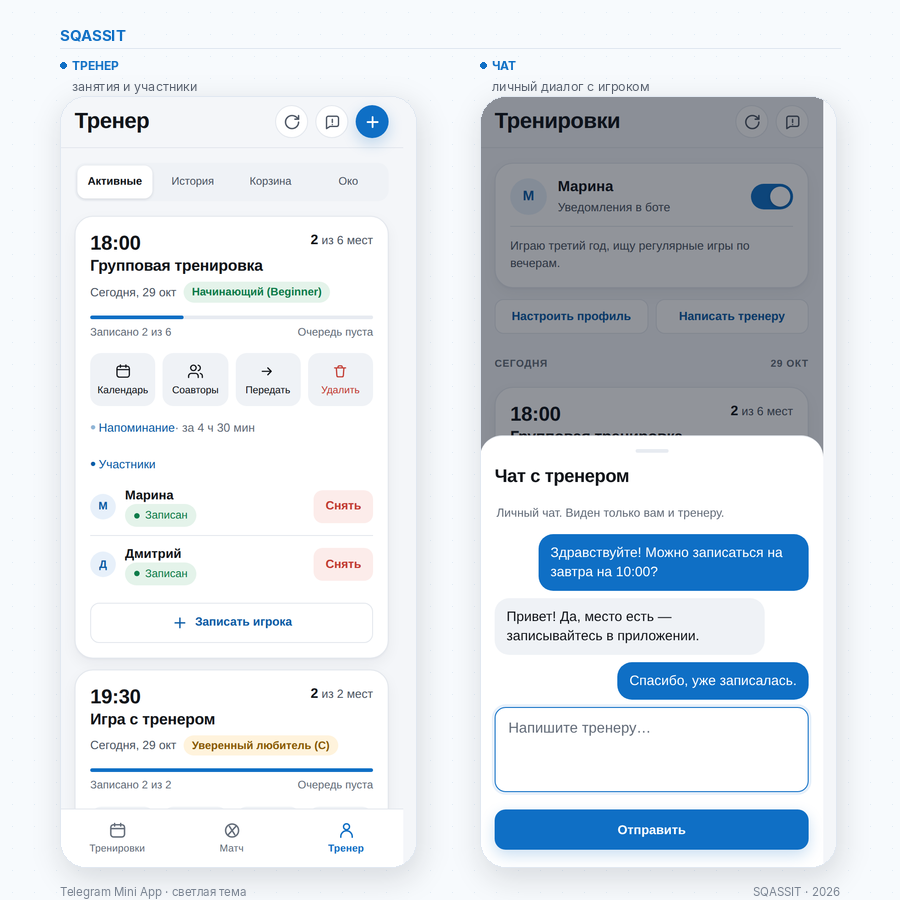
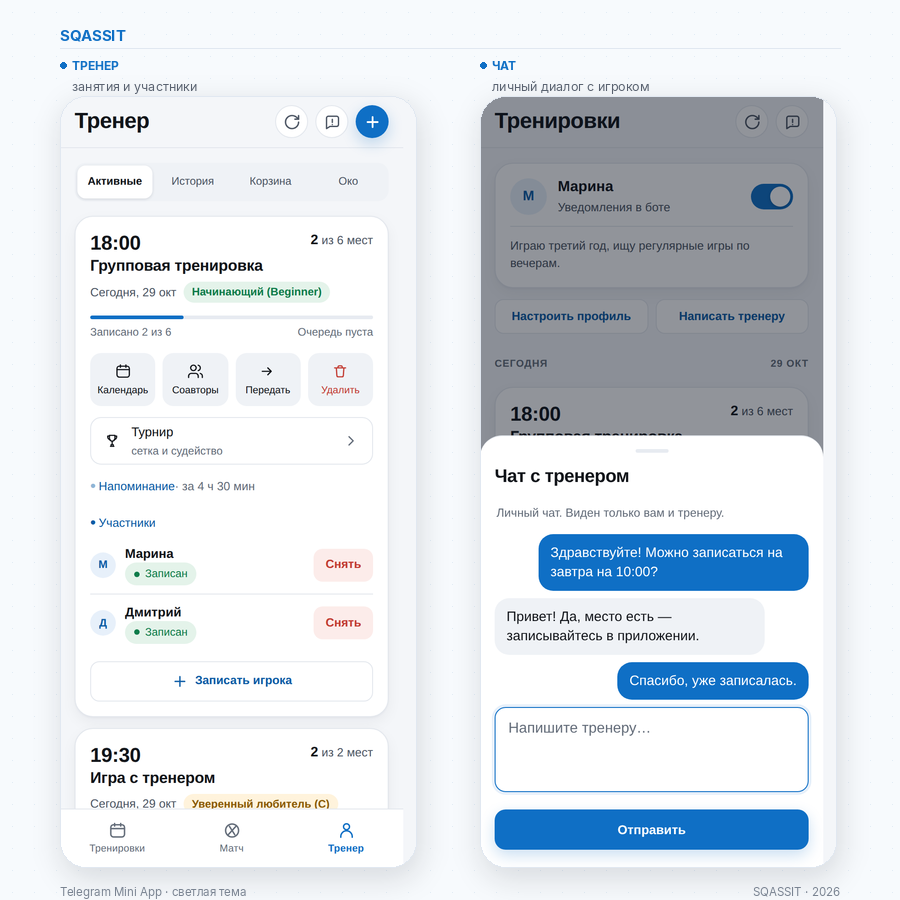
feat(coach): open a squashtabs tournament room from a training (2.9.0)
Тренеру нужен турнир на базе занятия: сетка, судейская консоль и общая
таблица уже есть в squashtabs, но ссылку с кодом комнаты приходилось
придумывать и передавать вручную.

Код комнаты теперь выдаёт сервер и хранит у занятия. Он случайный
(SQ- + 8 знаков, около 40 бит), а не производный от адреса приложения:
топик ntfy публичный, и предсказуемый код позволил бы постороннему читать
состав и подменять счёт. Доступ к коду — у создателя и соавторов, в
расписание игрока он не попадает.

- trainings.room_code + миграция для существующих баз;
- POST /api/coach/trainings/{id}/room: идемпотентно, проверка can_manage,
  404 для удалённой, 403 для чужого тренера и игрока;
- строка «Турнир» в карточке занятия: берёт код и открывает squashtabs
  через Telegram.WebApp.openLink, код идёт в #room= и не уходит на сервер;
- тесты на формат, стабильность, права, удаление и сбой БД (272 теста,
  покрытие 100%).

WEB_APP_VERSION 38, версия 2.9.0. Скриншоты панели тренера обновлены.

diff --git a/app/templates/coach.html b/app/templates/coach.html
@@ -778,6 +778,28 @@ function reminderEditor(t) {
   </details>`;
 }
 
+// Турнир — отдельной строкой: это переход в другое приложение, а не
+// действие над занятием, поэтому не плитка среди «Удалить».
+function tournamentRow(t) {
+  return `
+  <button type="button" class="list-action tournament-row" data-tournament="${t.id}">
+    <svg viewBox="0 0 24 24" fill="none" stroke="currentColor" stroke-width="1.8"
+         stroke-linecap="round" stroke-linejoin="round" aria-hidden="true">
+      <path d="M8 4h8v4.5a4 4 0 0 1-8 0V4Z"/>
+      <path d="M8 5H5.5v1.5A3.5 3.5 0 0 0 9 10M16 5h2.5v1.5A3.5 3.5 0 0 1 15 10"/>
+      <path d="M12 12.5V16M9.5 20h5M10.5 20v-2.5h3V20"/>
+    </svg>
+    <span class="list-action__text">
+      <span>Турнир</span>
+      <span class="list-action__hint">сетка и судейство</span>
+    </span>
+    <svg class="list-action__chevron" viewBox="0 0 24 24" fill="none" stroke="currentColor"
+         stroke-width="1.9" stroke-linecap="round" stroke-linejoin="round" aria-hidden="true">
+      <path d="M9 18l6-6-6-6"/>
+    </svg>
+  </button>`;
+}
+
 // Плитка быстрого действия: иконка и подпись. Подпись важна — по одной
 // иконке тренер не всегда понимает, что именно произойдёт.
 function quickBtn(attr, label, path, danger) {
@@ -815,6 +837,7 @@ function activeRow(t) {
       <span>${wait ? 'Очередь: ' + wait : 'Очередь пуста'}</span>
     </div>
     <div class="quick-actions">${actions}</div>
+    ${t.can_manage ? tournamentRow(t) : ''}
     ${t.is_owner ? reminderEditor(t) : ''}
     <details class="disclosure" data-pid="${t.id}" open>
       <summary>Участники${pending ? ` · заявок ${pending}` : ''}</summary>
@@ -968,6 +991,7 @@ document.getElementById('list').addEventListener('click', async (ev) => {
   const xfer = ev.target.closest('[data-xfer]')?.getAttribute('data-xfer');
   const coauthors = ev.target.closest('[data-coauthors]')?.getAttribute('data-coauthors');
   const book = ev.target.closest('[data-book]')?.getAttribute('data-book');
+  const tournament = ev.target.closest('[data-tournament]')?.getAttribute('data-tournament');
   const row = ev.target.closest('.p-row');
 
   if (cal) {
@@ -978,6 +1002,7 @@ document.getElementById('list').addEventListener('click', async (ev) => {
   if (xfer) { openTransfer(xfer); return; }
   if (coauthors) { openCoauthors(coauthors); return; }
   if (book) { openBook(book); return; }
+  if (tournament) { openTournament(tournament); return; }
 
   try {
     if (del) {
@@ -1257,6 +1282,24 @@ bookList.addEventListener('click', (ev) => {
   }
   addBookPlayer(parseInt(btn.getAttribute('data-book-user'), 10), btn);
 });
+
+// ===== Турнир (squashtabs) =====
+// Код комнаты выдаёт сервер и хранит у занятия: из адреса приложения его
+// выводить нельзя — публичный топик ntfy знает любой, кому известен код.
+async function openTournament(id) {
+  const btn = document.querySelector(`[data-tournament="${id}"]`);
+  if (btn) btn.disabled = true;
+  try {
+    const d = await api(`/api/coach/trainings/${id}/room`, 'POST');
+    haptic('light');
+    openExternal('https://difp.github.io/squashtabs/#room=' + encodeURIComponent(d.code));
+  } catch (e) {
+    hapticNotify('error');
+    toast(e.message);
+  } finally {
+    if (btn) btn.disabled = false;
+  }
+}
 
 // ===== Напоминание =====
 function readReminder(id) {

diff --git a/app/templates/base.html b/app/templates/base.html
@@ -403,6 +403,10 @@
     .list-action svg { width: 18px; height: 18px; flex: none; }
     .list-action__chevron { margin-inline-start: auto; color: var(--text-3); }
     .list-action--danger { color: var(--danger); }
+    /* Строка-переход в другое приложение: подпись в две строки. */
+    .tournament-row { margin-top: 12px; }
+    .list-action__text { display: flex; flex-direction: column; gap: 2px; min-width: 0; }
+    .list-action__hint { font-size: 12px; font-weight: 400; color: var(--text-3); }
     .list-action:active { background: var(--surface-2); }
 
     /* Плитки быстрых действий тренера: иконка + подпись под ней. */

diff --git a/tests/test_app.py b/tests/test_app.py
@@ -769,6 +769,58 @@ def _create_training(client, *, day: int, time_str: str, **extra) -> int:
     return response.json()["id"]
 
 
+def test_training_room_code_is_server_side_and_stable(client, monkeypatch):
+    tid = _create_training(client, day=24, time_str="12:00")
+
+    first = client.post(f"/api/coach/trainings/{tid}/room", headers=COACH)
+    assert first.status_code == 200
+    code = first.json()["code"]
+    # Алфавит без 0/O и 1/I: код диктуют вслух и вводят руками.
+    assert re.fullmatch(r"SQ-[A-HJ-NP-Z2-9]{8}", code)
+
+    # Повторный тап отдаёт тот же код, а не создаёт второй.
+    again = client.post(f"/api/coach/trainings/{tid}/room", headers=COACH)
+    assert again.json()["code"] == code
+
+    # В расписании кода нет: он нужен только в панели тренера.
+    for viewer in (PLAYER, COACH):
+        cards = client.get("/api/trainings?days=31", headers=viewer).json()["trainings"]
+        card = next(t for t in cards if t["id"] == tid)
+        assert "room_code" not in card
+
+    # Игрок и чужой тренер код не получают.
+    assert client.post(
+        f"/api/coach/trainings/{tid}/room", headers=PLAYER
+    ).status_code == 403
+    assert client.get("/api/me", headers=COACH2).status_code == 200
+    assert client.post(
+        "/api/coach/coaches", headers=COACH, json={"telegram_id": 777}
+    ).json()["ok"]
+    assert client.post(
+        f"/api/coach/trainings/{tid}/room", headers=COACH2
+    ).status_code == 403
+
+    # Несуществующая и удалённая тренировки.
+    assert client.post(
+        "/api/coach/trainings/999999/room", headers=COACH
+    ).status_code == 404
+    assert client.delete(f"/api/coach/trainings/{tid}", headers=COACH).status_code == 200
+    assert client.post(
+        f"/api/coach/trainings/{tid}/room", headers=COACH
+    ).status_code == 404
+
+    # Сбой записи кода не должен отдавать 200 с пустым кодом.
+    tid2 = _create_training(client, day=25, time_str="12:00")
+
+    async def boom(*args, **kwargs):
+        raise RuntimeError("db down")
+
+    monkeypatch.setattr(mainmod.db, "set_training_room", boom)
+    failed = client.post(f"/api/coach/trainings/{tid2}/room", headers=COACH)
+    assert failed.status_code == 500
+    assert failed.json()["ok"] is False
+
+
 def test_coach_api_includes_waitlist_count(client):
     tid = _create_training(client, day=15, time_str="10:00", capacity=1)
     client.post(f"/api/trainings/{tid}/book", headers=PLAYER)

diff --git a/app/main.py b/app/main.py
@@ -14,6 +14,7 @@ import hmac
 import html
 import logging
 import re
+import secrets
 import time
 from contextlib import asynccontextmanager, suppress
 from datetime import UTC, datetime, timedelta
@@ -649,6 +650,14 @@ async def _resolve_user_id(payload: CoachIn | CoauthorIn) -> int | None:
         found = await db.find_user_by_username(payload.username)
         return int(found["telegram_id"]) if found is not None else None
     return None
+
+
+_ROOM_CODE_ALPHABET = "ABCDEFGHJKLMNPQRSTUVWXYZ23456789"  # без похожих 0/O и 1/I
+
+
+def _new_room_code() -> str:
+    """Код комнаты турнира: 8 знаков, около 40 бит энтропии."""
+    return "SQ-" + "".join(secrets.choice(_ROOM_CODE_ALPHABET) for _ in range(8))
 
 
 _TRAINING_BATCH_MAX_DAYS = 92
@@ -1678,6 +1687,34 @@ async def api_coach_participants(training_id: int, coach: Annotated[dict, Depend
         }
     except Exception:
         logger.exception("Ошибка чтения участников")
+        return error_json("Внутренняя ошибка сервера", 500)
+
+
+@app.post("/api/coach/trainings/{training_id}/room")
+async def api_training_room(
+    training_id: int, user: Annotated[dict, Depends(require_coach)]
+):
+    """
+    Код комнаты squashtabs для занятия.
+
+    Код случайный и хранится на сервере: ntfy не авторизует топики, поэтому
+    выводить его из адреса приложения нельзя — кто знает код, тот читает
+    состав и может подменить счёт. Права те же, что на управление занятием.
+    """
+    try:
+        training = await db.get_training(training_id)
+        if training is None or training["deleted_at"]:
+            return error_json("Тренировка не найдена", 404)
+        if not await _can_manage_training(training, user["telegram_id"]):
+            return error_json("Нет прав на это занятие", 403)
+        code = training["room_code"]
+        if not code:
+            await db.set_training_room(training_id, _new_room_code())
+            # Перечитываем: параллельный тап мог записать свой код первым.
+            code = await db.get_training_room(training_id)
+        return {"ok": True, "code": code}
+    except Exception:
+        logger.exception("Ошибка кода комнаты турнира")
         return error_json("Внутренняя ошибка сервера", 500)
 
 

diff --git a/app/database.py b/app/database.py
@@ -97,6 +97,7 @@ CREATE TABLE IF NOT EXISTS trainings (
     deleted_at            INTEGER,                    -- мягкое удаление (корзина)
     deleted_by            INTEGER,
     created_by            INTEGER,
+    room_code             TEXT,                       -- код комнаты турнира (squashtabs)
     created_at            INTEGER NOT NULL
 );
 
@@ -242,6 +243,7 @@ async def _migrate() -> None:
         ("trainings", "deleted_at"): "ALTER TABLE trainings ADD COLUMN deleted_at INTEGER",
         ("trainings", "deleted_by"): "ALTER TABLE trainings ADD COLUMN deleted_by INTEGER",
         ("trainings", "level"): "ALTER TABLE trainings ADD COLUMN level TEXT NOT NULL DEFAULT ''",
+        ("trainings", "room_code"): "ALTER TABLE trainings ADD COLUMN room_code TEXT",
         ("users", "bio"): "ALTER TABLE users ADD COLUMN bio TEXT NOT NULL DEFAULT ''",
         ("users", "links"): "ALTER TABLE users ADD COLUMN links TEXT NOT NULL DEFAULT '[]'",
         ("users", "about"): "ALTER TABLE users ADD COLUMN about TEXT NOT NULL DEFAULT ''",
@@ -899,6 +901,22 @@ async def update_reminder_settings(
 
 async def get_training(training_id: int) -> aiosqlite.Row | None:
     return await _fetchone("SELECT * FROM trainings WHERE id = ?", (training_id,))
+
+
+async def get_training_room(training_id: int) -> str | None:
+    """Код комнаты турнира для занятия (None, если ещё не создавали)."""
+    row = await _fetchone(
+        "SELECT room_code FROM trainings WHERE id = ?", (training_id,)
+    )
+    return row["room_code"] if row is not None else None
+
+
+async def set_training_room(training_id: int, code: str) -> None:
+    """Записывает код, только если его ещё нет: два тапа не создадут два кода."""
+    await _execute_rowcount(
+        "UPDATE trainings SET room_code = ? WHERE id = ? AND room_code IS NULL",
+        (code, training_id),
+    )
 
 
 async def get_training_with_count(training_id: int) -> aiosqlite.Row | None:

diff --git a/tests/test_layout.py b/tests/test_layout.py
@@ -273,3 +273,13 @@ def test_coach_always_sees_username() -> None:
     assert "username скрыт" not in coach
     assert "Тренер видит ваш username всегда" in index
     assert "Тренер видит его всегда" in (TEMPLATES.parents[1] / "docs" / "PRIVACY.md").read_text()
+
+
+def test_coach_opens_tournament_room() -> None:
+    coach = (TEMPLATES / "coach.html").read_text()
+
+    # Турнир — переход в squashtabs; код комнаты выдаёт сервер, а не URL.
+    assert 'data-tournament="${t.id}"' in coach
+    assert "if (tournament) { openTournament(tournament); return; }" in coach
+    assert "difp.github.io/squashtabs/#room=" in coach
+    assert "${t.can_manage ? tournamentRow(t) : ''}" in coach

diff --git a/app/bot.py b/app/bot.py
@@ -58,7 +58,7 @@ class PendingReplyFilter(BaseFilter):
         return True
 
 
-WEB_APP_VERSION = "37"
+WEB_APP_VERSION = "38"
 
 
 def _web_app_url() -> str:

diff --git a/.trail/learnings/2026-10-29-note-agent.md b/.trail/learnings/2026-10-29-note-agent.md
@@ -1,0 +1,34 @@
+---
+title: "Код комнаты турнира: случайный на сервере, не из адреса приложения"
+author: agent
+date: 2026-10-29
+branch: main
+id: l-56827a5b
+scope: repo
+status: active
+src: agent
+touches:
+  - "app/main.py#api_training_room"
+  - "app/database.py#set_training_room"
+  - app/templates/coach.html
+---
+
+## Decided
+Код комнаты squashtabs живёт в `trainings.room_code`, генерируется на сервере
+(`SQ-` + 8 знаков, около 40 бит) и выдаётся только создателю занятия и
+соавторам через `POST /api/coach/trainings/{id}/room`.
+
+## Why
+Топик ntfy публичный: кто знает код, тот читает состав и может подменить счёт.
+Поэтому код нельзя выводить из адреса приложения или id тренировки — такой код
+угадывается за несколько попыток, а 40 бит случайности и выдача только
+управляющим закрывают эту дыру.
+
+## Watch out
+- Код не кладём в `serialize_training`: игрок получает расписание через
+  `/api/trainings`, и код в нём был бы виден всем.
+- squashtabs чистит код до `A-Z0-9-` и обрезает до 20 знаков; ссылка идёт
+  через `telegram.openLink` с кодом в `#room=`, поэтому хэш не уходит
+  на GitHub Pages.
+- Повторный тап должен возвращать тот же код: `set_training_room` пишет
+  только при `room_code IS NULL`, иначе два судьи получат разные комнаты.

diff --git a/CHANGELOG.md b/CHANGELOG.md
@@ -3,6 +3,17 @@
 Все значимые изменения проекта. Формат — [Keep a Changelog](https://keepachangelog.com/ru/1.1.0/),
 версии — [SemVer](https://semver.org/lang/ru/).
 
+## [2.9.0] — 2026-10-29
+
+### Добавлено
+- В карточке занятия у тренера появилась строка «Турнир»: она открывает
+  squashtabs — сетку, судейскую консоль и общую таблицу. Код комнаты
+  генерирует сервер (8 знаков, `SQ-XXXXXXXX`) и хранит у занятия; повторное
+  открытие возвращает тот же код, поэтому все судьи попадают в одну комнату.
+- Код не выводится из адреса приложения и не попадает в расписание игрока.
+  Публичный топик ntfy читает и пишет любой, кому известен код, поэтому он
+  должен быть случайным. Доступ к нему — у создателя занятия и соавторов.
+
 ## [2.8.0] — 2026-10-29
 
 ### Добавлено
